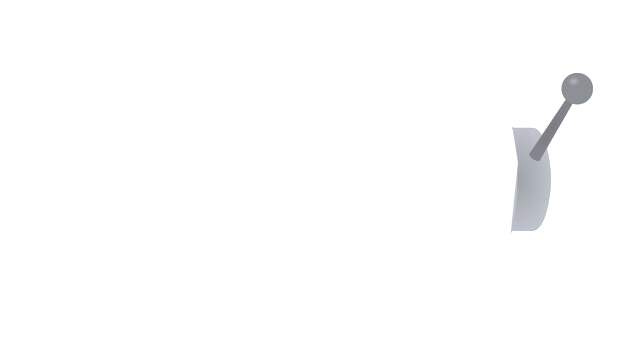
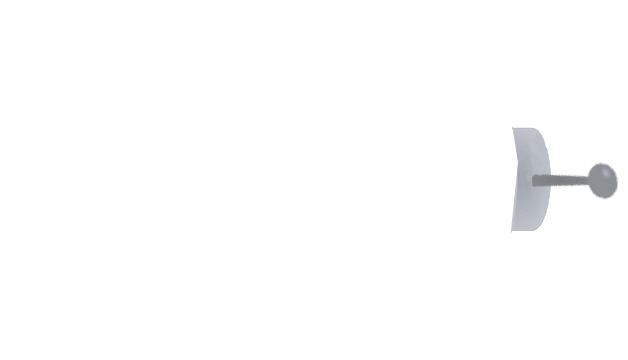
Added slots logic

Changed region(s): [[0.8471, 0.1833, 0.9984, 0.55]]

diff --git a/app.js b/app.js
@@ -1,0 +1,118 @@
+const arm = document.querySelector(".arm");
+const roll0 = document.getElementById("roll-0");
+const roll1 = document.getElementById("roll-1");
+const roll2 = document.getElementById("roll-2");
+
+const balanceElement = document.getElementById("balance");
+let balance = Number.parseInt(balanceElement.textContent);
+
+const changeBalance = (value) => {
+  balance += value;
+  balanceElement.textContent = balance;
+};
+
+let isSpining = false;
+let spinsCount = 0;
+
+// config
+
+const cardHeight = 140;
+const priceGame = 1;
+const winReward = 5;
+
+const sleep = (ms) => {
+  return new Promise((resolve) => setTimeout(resolve, ms));
+};
+
+const randInt = (max = 10) => {
+  return Math.floor(Math.random() * max) + 1;
+};
+
+const rewardCheck = (arr) => {
+  let reward = arr.reduce((acc, el) => {
+    acc[el] = (acc[el] || 0) + 1;
+    return acc;
+  }, {});
+};
+
+const armAnimation = () => {
+  for (let i = 0; i < 2; i++) {
+    setTimeout(() => {
+      arm.classList.remove(`arm-${i}`);
+      arm.classList.add(`arm-${i + 1}`);
+    }, 75 * i);
+
+    setTimeout(() => {
+      arm.classList.remove(`arm-${i + 1}`);
+      arm.classList.add(`arm-${i}`);
+    }, 75 * -i + 400);
+  }
+
+  return sleep(400);
+};
+
+const spin = async (element, endPoint, maxSpeed, step = 1) => {
+  spinsCount += 1;
+  let k = step;
+  let position = 0;
+  while (k < maxSpeed) {
+    if (k < maxSpeed) {
+      k += step;
+    }
+    position += k;
+    element.style.backgroundPositionY = `${position}px`;
+    await sleep(1);
+  }
+
+  while (position < endPoint - 140 * 3) {
+    position += k;
+    element.style.backgroundPositionY = `${position}px`;
+    await sleep(2);
+  }
+
+  while (position < endPoint) {
+    if (k > step) {
+      k -= step;
+    } else if (k <= step) {
+      k = maxSpeed / 2;
+    }
+    position += k;
+    element.style.backgroundPositionY = `${position}px`;
+    await sleep(1);
+  }
+
+  spinsCount -= 1;
+};
+
+const startGame = async () => {
+  if (isSpining || spinsCount || balance <= 0) return;
+  changeBalance(-priceGame);
+  isSpining = true;
+  await armAnimation();
+
+  const rolls = [
+    {
+      element: roll0,
+      value: randInt(5),
+      speed: 4,
+    },
+    {
+      element: roll1,
+      value: randInt(5),
+      speed: 5,
+    },
+    {
+      element: roll2,
+      value: randInt(5),
+      speed: 6,
+    },
+  ];
+
+  await rolls.forEach((item) => {
+    spin(item.element, cardHeight * item.value * 7, item.speed);
+  });
+
+  isSpining = false;
+};
+
+arm.addEventListener("click", startGame);

diff --git a/style.css b/style.css
@@ -9,6 +9,7 @@ html {
 
 body {
   height: 100%;
+  font-family: Arial, Helvetica, sans-serif;
 }
 
 #app {
@@ -16,21 +17,109 @@ body {
   display: flex;
   align-items: center;
   justify-content: center;
+  flex-direction: column;
   background-color: rgb(46, 54, 83);
 }
 
 .slot {
-  background: url("/src/slot.png") cover;
+  position: relative;
+  display: block;
+  box-sizing: border-box;
+  width: 600px;
+  height: 300px;
+  z-index: 10;
+}
+
+.slot-bg {
+  position: absolute;
+  top: 0;
+  left: 0;
+  z-index: 10;
+}
+
+.arm {
+  cursor: pointer;
+  height: 300px;
+  width: 700px;
+  position: absolute;
+  top: 0;
+  z-index: 12;
+}
+
+.rolls {
+  position: relative;
+  width: 340px;
+  height: 130px;
+  top: 110px;
+  left: 120px;
+  z-index: -1;
+
+  overflow: hidden;
+}
+
+.roll {
+  z-index: -1;
+  display: inline-block;
+  width: 105px;
+  height: 130px;
+  position: absolute;
+}
+
+#roll-0 {
+  left: 0;
+  background-image: url("/src/roll.png");
+}
+
+#roll-1 {
+  left: 120px;
+  background-position-y: 140px;
+  background-image: url("/src/roll.png");
+}
+
+#roll-2 {
+  left: 236px;
+  background-position-y: 280px;
+  background-image: url("/src/roll.png");
+}
+
+.arm-0 {
+  background-image: url("/src/arm/0.png");
 }
 
 .arm-1 {
-  background: url("/src/arm/1.png") cover;
+  background-image: url("/src/arm/1.png");
 }
 
 .arm-2 {
-  background: url("/src/arm/1.png") cover;
+  background-image: url("/src/arm/2.png");
 }
 
-.arm-3 {
-  background: url("/src/arm/1.png") cover;
+.title {
+  animation: neonAnim 4s alternate-reverse infinite;
+  font-size: 72px;
+  margin-bottom: 60px;
+}
+
+@keyframes neonAnim {
+  from {
+    color: #c44569;
+    text-shadow: 0 0 15px rgba(196, 69, 105, 0.7),
+      0 0 45px rgba(196, 69, 105, 0.7), 0 0 105px rgba(196, 69, 105, 0.7);
+  }
+  to {
+    color: rgba(241, 246, 101);
+
+    text-shadow: 0 0 10px rgba(241, 246, 101, 0.7),
+      0 0 25px rgba(241, 246, 101, 0.7), 0 0 65px rgba(241, 246, 101, 0.7);
+  }
+}
+
+.balance {
+  color: #f5cd79;
+  font-size: 56px;
+  margin-top: 20px;
+}
+
+#balance {
+  color: #2ed573;
 }

diff --git a/index.html b/index.html
@@ -9,11 +9,17 @@
   </head>
   <body>
     <div id="app">
+      <div class="title">Awesome slots</div>
       <div class="slot">
-        <div id="roll-1"></div>
-        <div id="roll-2"></div>
-        <div id="roll-3"></div>
+        <div class="rolls">
+          <div class="roll" id="roll-0"></div>
+          <div class="roll" id="roll-1"></div>
+          <div class="roll" id="roll-2"></div>
+        </div>
+        <div class="arm arm-0"></div>
+        <img src="./src/slot.png" class="slot-bg" />
       </div>
+      <div class="balance">Your balance: <span id="balance">50</span> $</div>
     </div>
     <script src="app.js"></script>
   </body>
